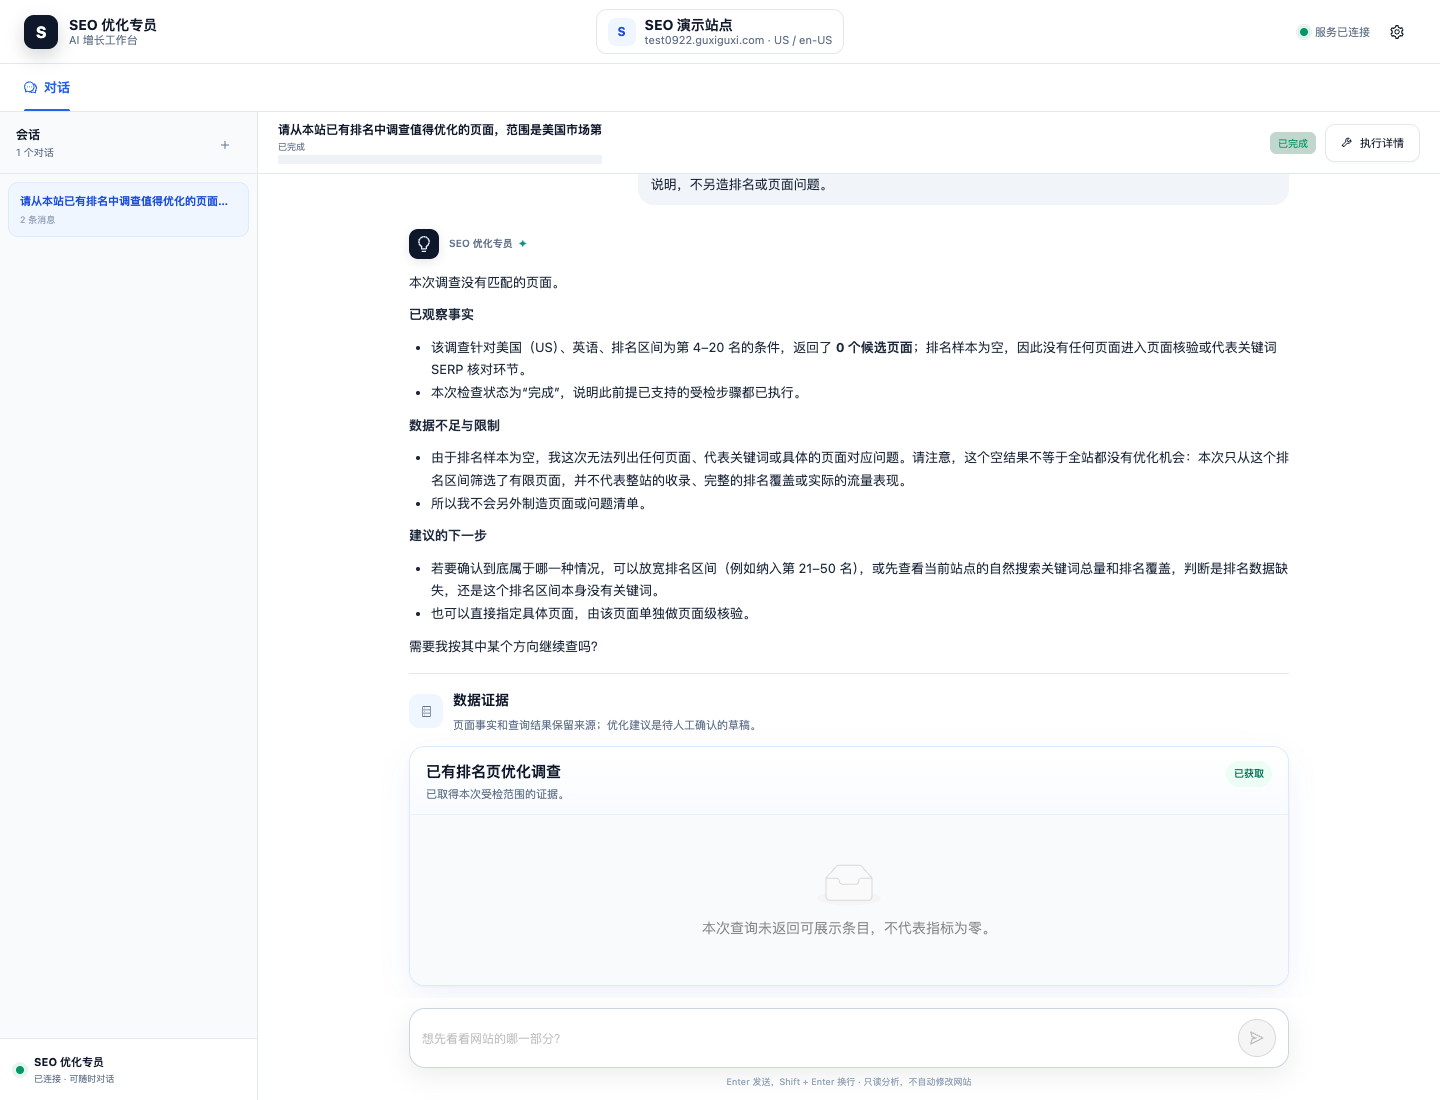
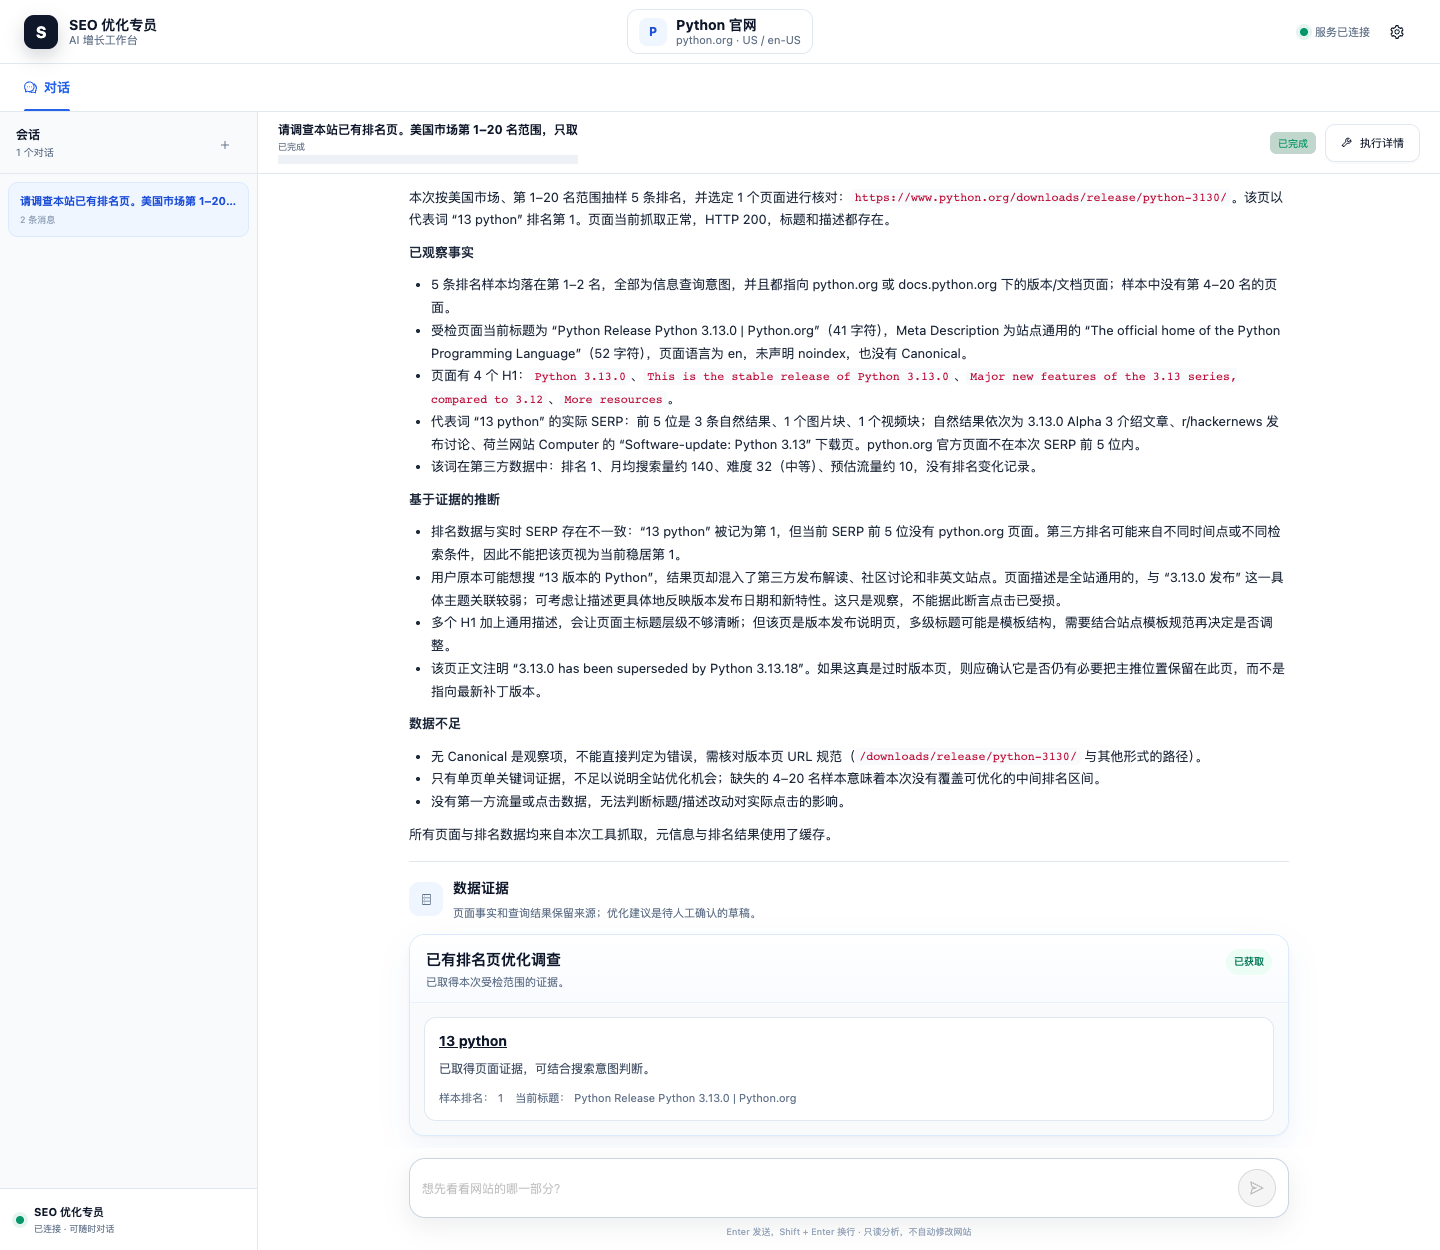
docs: update ranking screenshots

diff --git a/docs/screenshots/README.md b/docs/screenshots/README.md
@@ -1,17 +1,17 @@
 # 对话截图
 
-本组截图于 2026-11-11 使用用户提供的测试域名 `test0922.guxiguxi.com` 拍摄，来自真实只读运行及其界面回放。用户用自然语言提出业务问题，不需要输入工具名或 JSON 参数。
+这些截图来自真实只读运行及界面回放。2026-11-18 更新的搜索现状和排名页优化使用公开站点 `python.org`，其他案例使用测试域名 `test0922.guxiguxi.com`。
 
-页面内容来自测试页；页面中提及的机构身份尚未确认。搜索查询采用站点配置的美国市场，不代表中国市场的排名。DataForSEO 对该子域名及部分主题词未返回数据，截图保留空结果和未知指标，不将其解释为零流量或全网没有排名。页面建议均未发布，内部运行标识已遮挡。
+搜索查询采用美国市场，指标和排名样本来自第三方数据源。测试站点及部分主题词缺少的数据保留为未知。页面建议待人工确认，截图已遮住内部运行标识。
 
 ## 7 个只读工作流
 
 | 对话场景 | 截图 | 工作流代码 |
 | --- | --- | --- |
 | 首页体检 | [页面证据与检查范围](02-page-audit.png) | [site_audit.py](../../src/seo_agent/workflows/site_audit.py) |
-| 搜索现状 | [区分无数据与零流量](03-search-diagnosis.png) | [search_diagnosis.py](../../src/seo_agent/workflows/search_diagnosis.py) |
+| 搜索现状 | [排名关键词与对应页面](03-search-diagnosis.png) | [search_diagnosis.py](../../src/seo_agent/workflows/search_diagnosis.py) |
 | 关键词机会 | [候选词与未知指标](04-keyword-opportunities.png) | [keyword_opportunity.py](../../src/seo_agent/workflows/keyword_opportunity.py) |
-| 已有排名页优化 | [样本中没有匹配页](05-ranking-pages.png) | [ranking_page_optimization.py](../../src/seo_agent/workflows/ranking_page_optimization.py) |
+| 已有排名页优化 | [排名样本与页面核验](05-ranking-pages.png) | [ranking_page_optimization.py](../../src/seo_agent/workflows/ranking_page_optimization.py) |
 | 综合诊断 | [汇总证据与覆盖范围](06-site-diagnosis.png) | [site_diagnosis.py](../../src/seo_agent/workflows/site_diagnosis.py) |
 | 页面信息建议 | [TDK 与 OG](07-page-suggestions.png)、[JSON-LD 与待确认项](15-structured-data.png) | [page_suggestions.py](../../src/seo_agent/workflows/page_suggestions.py) |
 | 页面变更复检 | [保存基线](09-page-review-baseline.png)、[按目标复检](10-page-change-review.png) | [page_change_review.py](../../src/seo_agent/workflows/page_change_review.py) |
@@ -26,11 +26,11 @@
 </details>
 
 <details>
-<summary>搜索现状：没有返回指标时，明确说明未知</summary>
+<summary>搜索现状：查看关键词、位次和对应页面</summary>
 
-本次美国市场查询未返回该子域名的排名条目或站点指标。模型收到明确的数据不可用错误码，说明本次没有数据，不再将空结果解释为需要授权或绑定站点，也不生成排名清单或零流量结论。
+本次查询返回 Python 官网的站点指标和 5 条美国市场排名样本。图中展示关键词、位次和对应页面，流量指标为 DataForSEO 的估算值。
 
-![自然搜索现状与数据限制](03-search-diagnosis.png)
+![自然搜索现状、关键词和对应页面](03-search-diagnosis.png)
 
 </details>
 
@@ -44,11 +44,11 @@
 </details>
 
 <details>
-<summary>已有排名页优化：没有匹配样本时，不编造待优化页</summary>
+<summary>已有排名页优化：从排名样本选页核对</summary>
 
-请求调查美国市场第 4–20 名、最多两个页面。本次没有返回匹配排名页，因此没有生成已核实的页面优化问题。
+从美国市场第 1–20 名范围的 5 条样本中选 1 个版本发布页，核对源码中的标题、描述和代表词搜索结果。对话保留了第三方排名快照与本次 SERP 的差异，建议限定在受检页面。
 
-![已有排名页优化的空样本结果](05-ranking-pages.png)
+![已有排名页的页面证据和搜索结果](05-ranking-pages.png)
 
 </details>
 

diff --git a/README.md b/README.md
@@ -8,7 +8,7 @@
 
 [查看完整对话截图](docs/screenshots/README.md)：包含 7 个只读工作流、人工补充后继续执行、工具与事件详情、竞品和外链查询、新闻／图片／视频搜索，以及手机端效果。
 
-截图来自测试域名的真实只读运行及界面回放。数据来源、查询市场和未返回数据的范围见截图目录；页面建议仍需人工确认。
+搜索案例使用 Python 官网的美国市场样本。自然搜索现状展示关键词、位次和对应页面，排名页优化进一步核对页面和代表词搜索结果。[搜索现状截图](docs/screenshots/03-search-diagnosis.png) · [排名页优化截图](docs/screenshots/05-ranking-pages.png)
 
 ## Agent 如何运行
 
